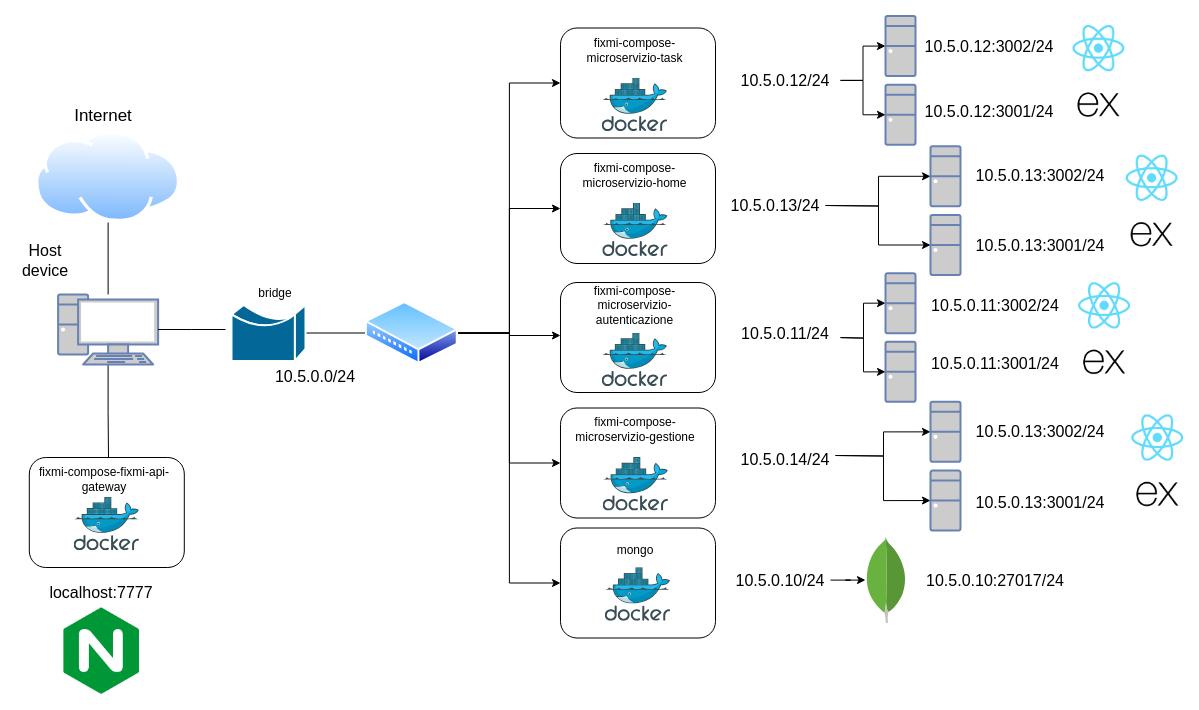
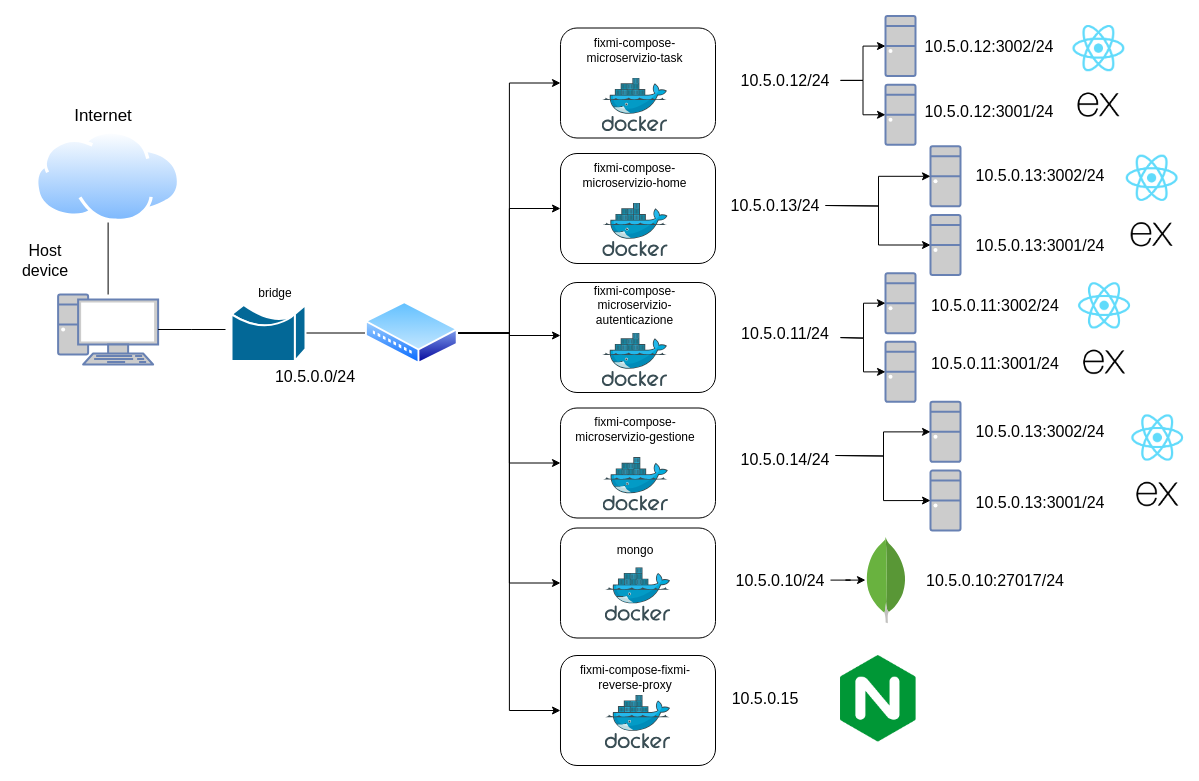
added nginx section

diff --git a/fourth-deliverable/D4.tex b/fourth-deliverable/D4.tex
@@ -276,10 +276,30 @@ La configurazione per gli altri microservizi è simile, con qualche piccola diff
 
 \subsection*{Codice: nginx.conf}
 
-Il file \textit{nginx.conf} all'interno della cartella \textit{fixmi-reverse-proxy} imposta la configurazione per il reverse proxy.
+Il file \textit{nginx.conf} all'interno della cartella \textit{fixmi-reverse-proxy} imposta la configurazione per il reverse proxy. Questo microservizio si occupa di instradare le richieste ai vari microservizi. Segue un'estratto della configurazione:
 
 
-TODO
+\begin{figure}[H]
+	\centering\includegraphics[width=1\textwidth]{images/nginx_config_home.png}
+	Estratto da "fixmi-reverse-proxy/nginx.conf", definizione delle routes "/home" e "/api/home"
+\end{figure}
+
+La variabile "worker\_connections" definisce il numero di connessioni simultanee che il servizio può gestire. Il blocco "http" e il blocco "server" contengono le configurazioni delle routes, in particolare in questo esempio notiamo che la route "/home/" viene passata a "http://10.5.0.13:3002/" ossia la frontend del microservizio "home", mentre "/api/home/" rimanda a "http://10.5.0.13:3001/api/home/" ossia la backend del microservizio "home". Vengono inoltre impostati alcuni headers dopo la dicitura "proxy\_set\_header".
+
+Di seguito vengono riportate le altre routes:
+
+\begin{figure}[H]
+	\centering\includegraphics[width=1\textwidth]{images/nginx_config_tasks.png}
+	Routes "/tasks" e "/api/tasks"
+\end{figure}
+\begin{figure}[H]
+	\centering\includegraphics[width=1\textwidth]{images/nginx_config_dipendenti.png}
+	Routes "/dipendenti" e "/api/dipendenti"
+\end{figure}
+\begin{figure}[H]
+	\centering\includegraphics[width=1\textwidth]{images/nginx_config_auth.png}
+	Routes "/auth" e "/api/auth"
+\end{figure}
 
 \subsection*{Codice: init-mongo.js}
 
@@ -364,6 +384,26 @@ Vengono definiti i seguenti scripts per l'esecuzione dell'applicazione tramite n
 \section{Microservizio Autenticazione}
 
 \section{Microservizio Task}
+
+\subsection*{Crea Task}
+
+\subsection*{Modifica Stato Task}
+
+\subsection*{Scegli Task}
+
+\subsection*{Get Lista Task In Lavorazione}
+
+\subsection*{Get Lista Task Da Eseguire}
+
+\subsection*{Get Lista Task In Pausa}
+
+\subsection*{Get Storico Task}
+
+\subsection*{Testing routes}
+
+\subsubsection*{Greet}
+\subsubsection*{Test Task}
+\subsubsection*{Test DB}
 
 \section{Microservizio Gestione Dipendenti}
 
